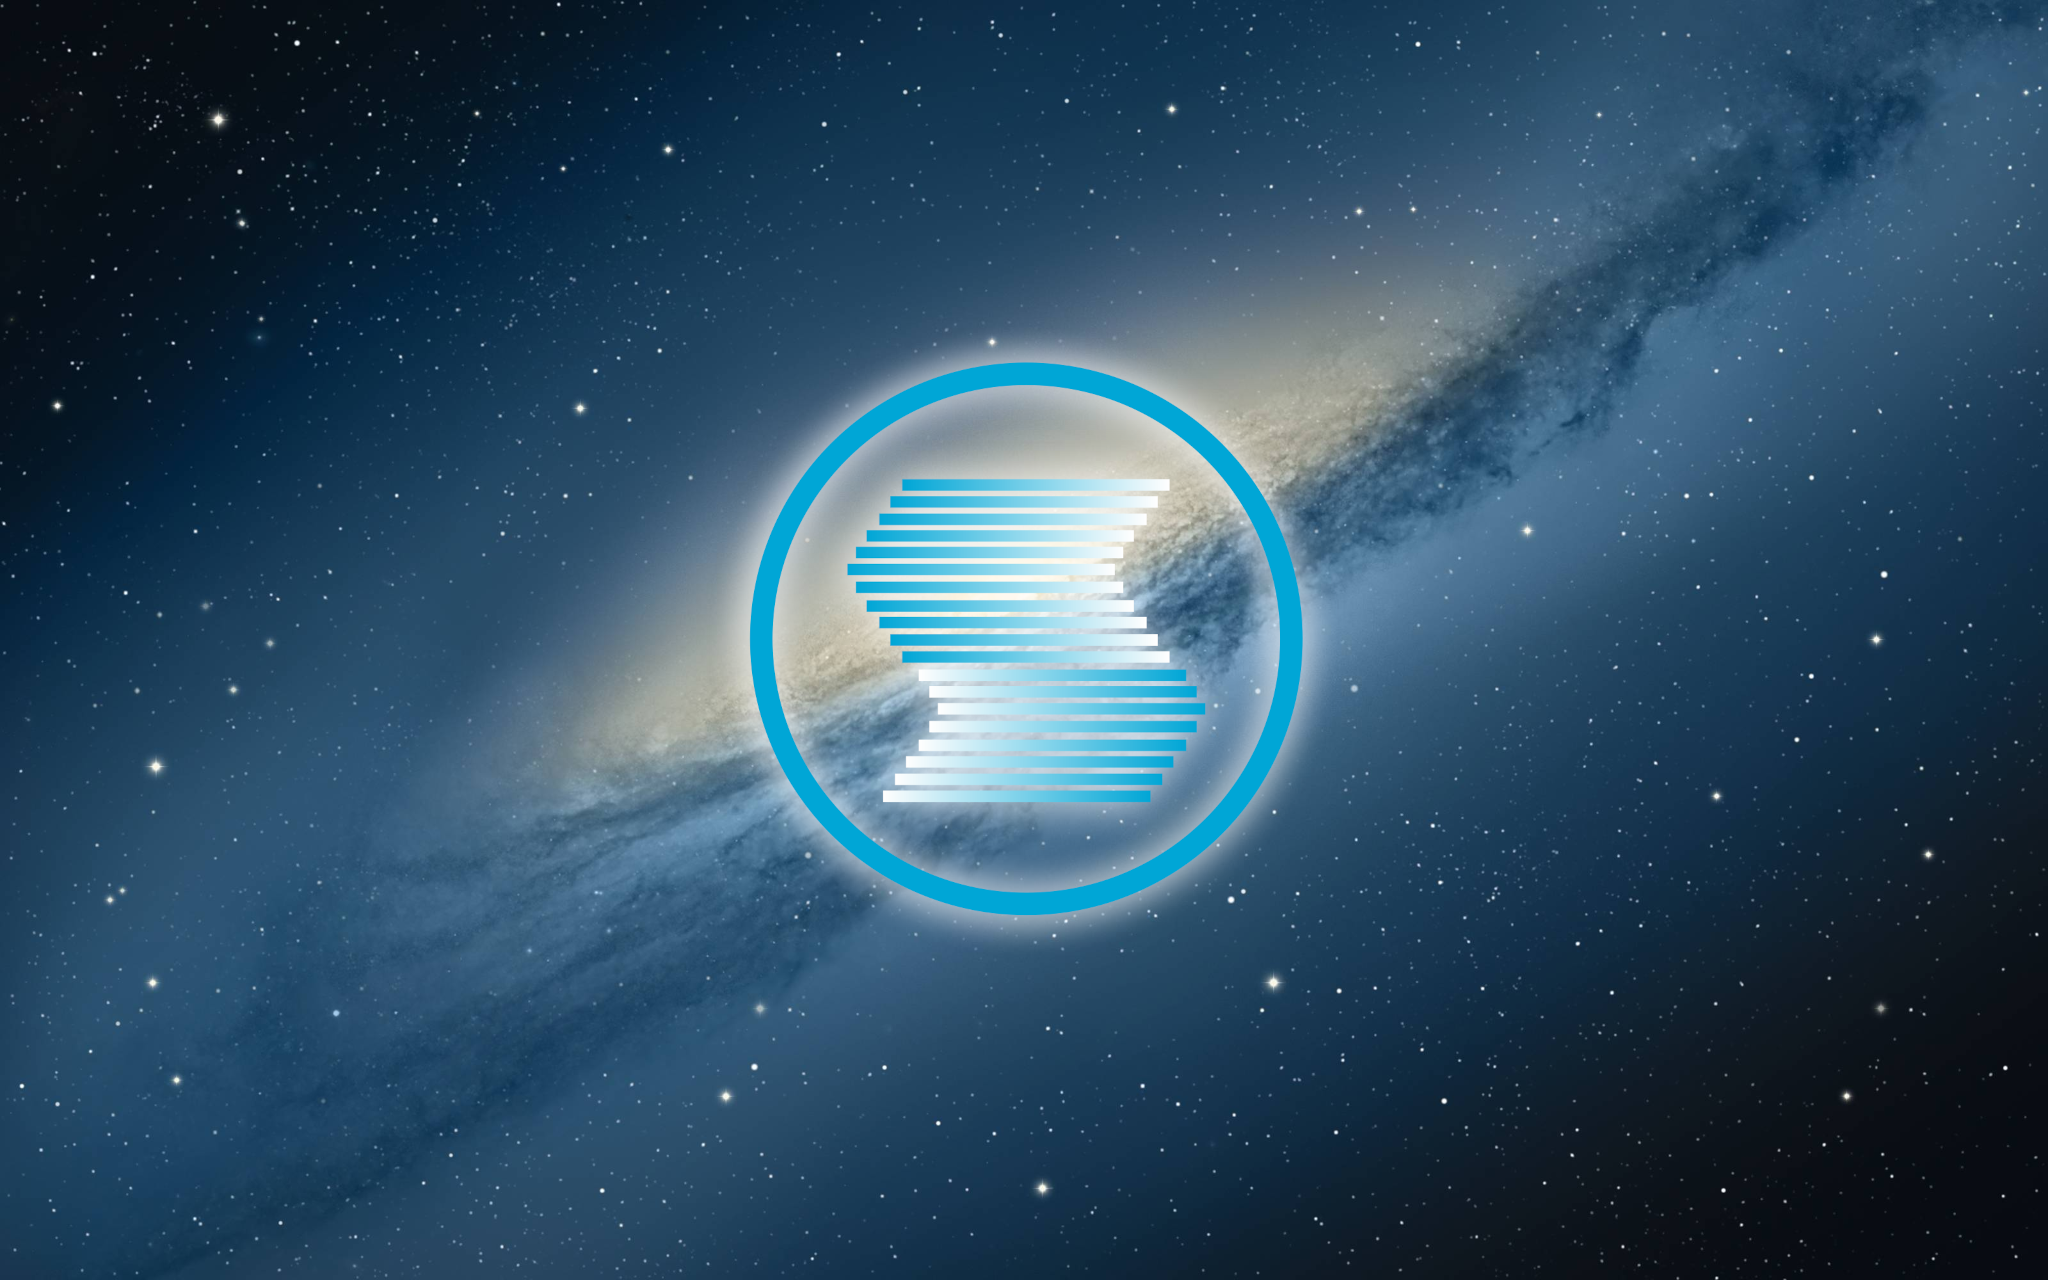
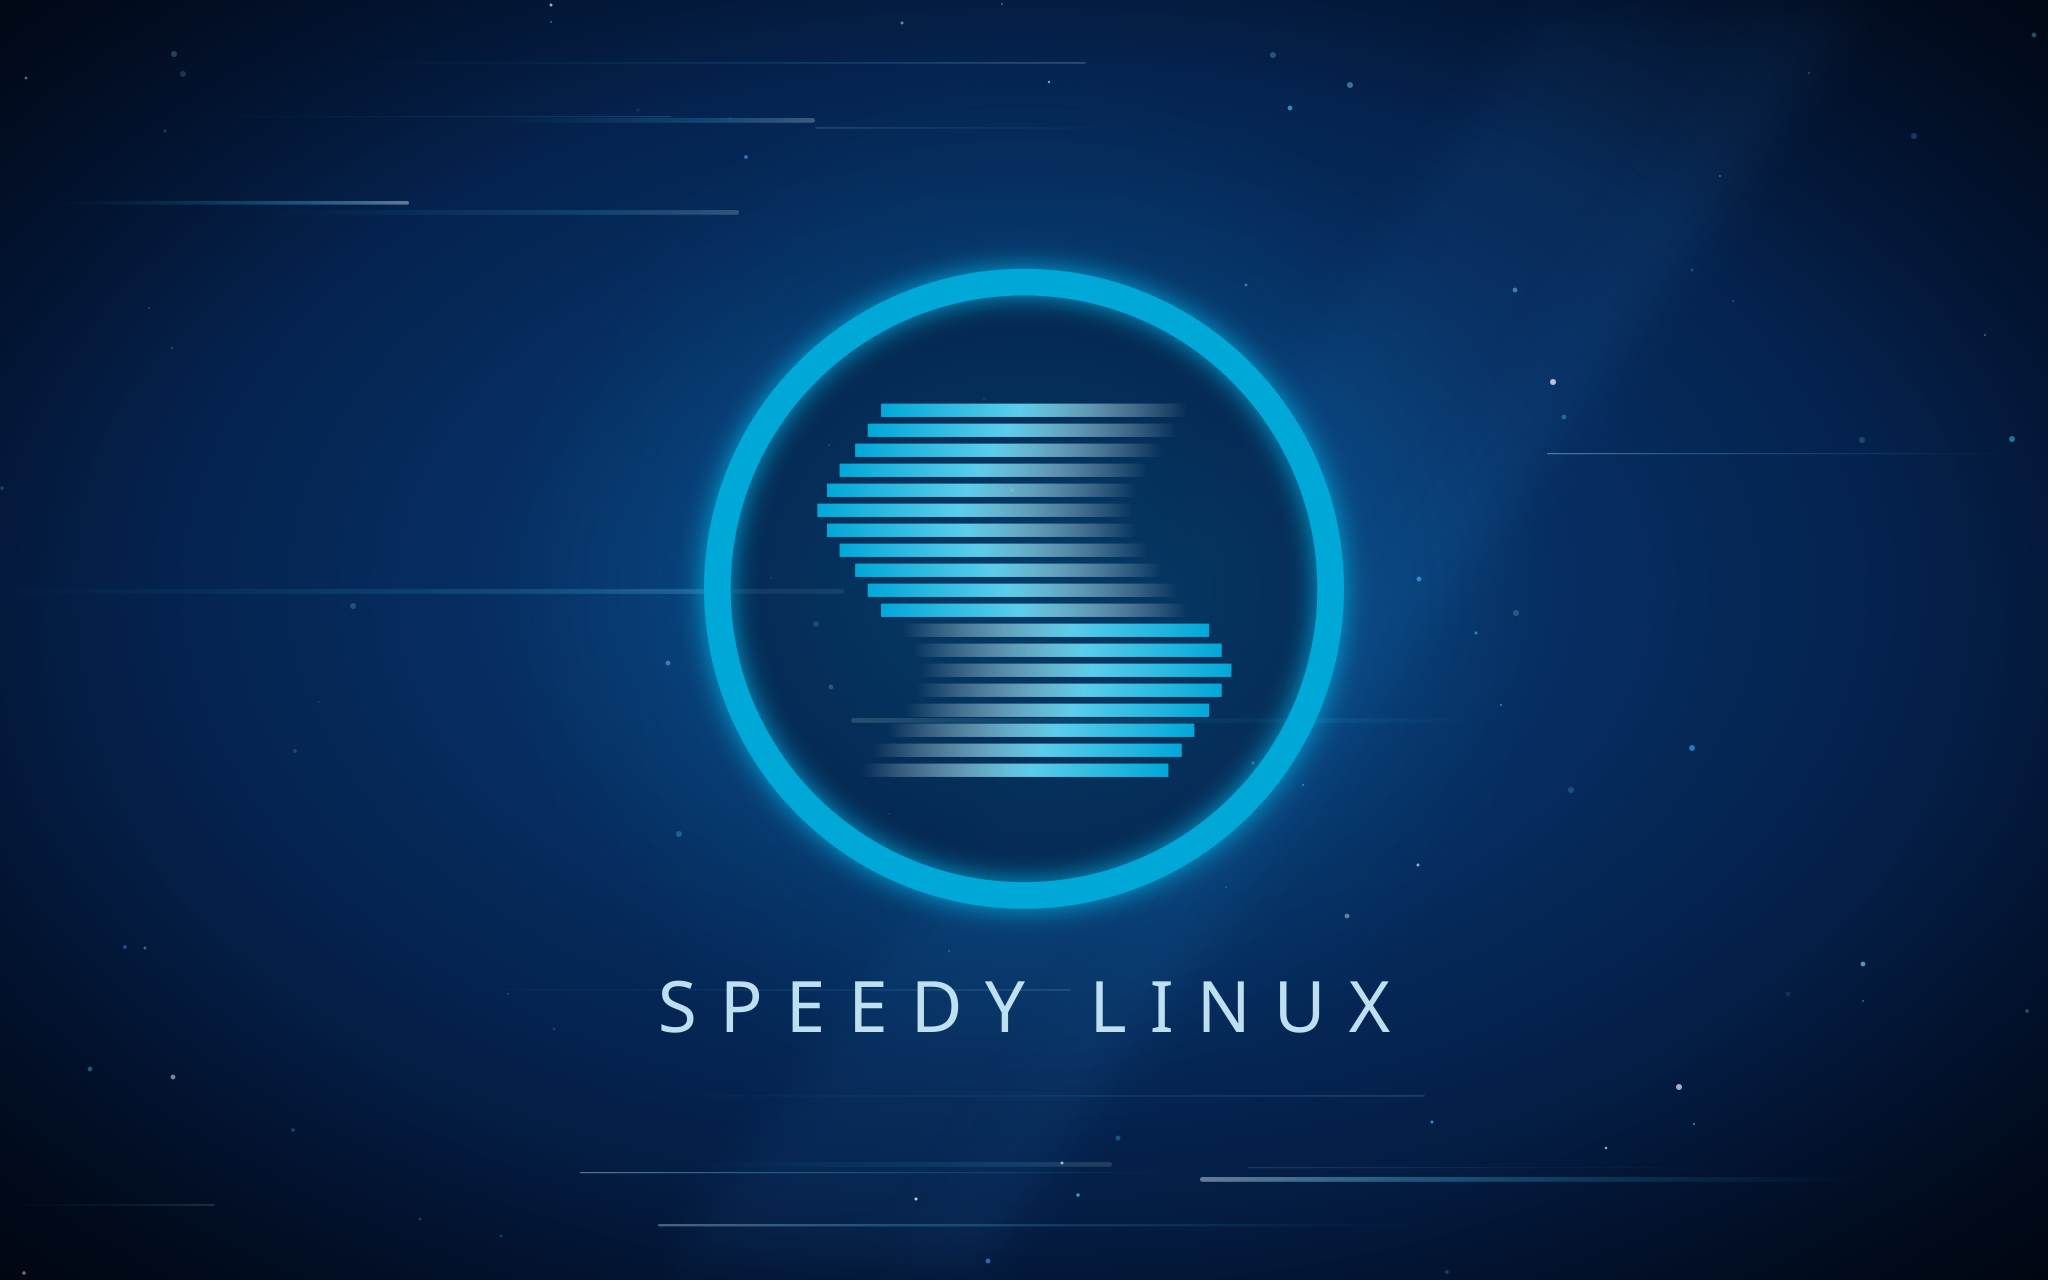
feat: Novo wallpaper e tela de boas-vindas do Calamares
- wallpaper 4K e welcome no estilo da distro, com o logo em vetor
- substitui o fundo de galáxia do welcome (imagem de terceiros)
- tools/gerar-imagens.{py,sh} para regerar as imagens via Docker

diff --git a/tools/gerar-imagens.py b/tools/gerar-imagens.py
@@ -1,0 +1,126 @@
+#!/usr/bin/env python3
+"""Gera em SVG o wallpaper e a tela de boas-vindas do Speedy Linux.
+
+Uso: gerar-imagens.py LARGURA ALTURA [--text] > saida.svg
+Normalmente chamado por tools/gerar-imagens.sh, que também converte para PNG.
+"""
+import random
+import sys
+
+W, H = int(sys.argv[1]), int(sys.argv[2])
+TEXT = "--text" in sys.argv
+
+K = H / 2160          # tudo foi desenhado para 2160px de altura
+CX, CY = W / 2, H * 0.46
+S = 1.25 * K          # escala do logo
+CYAN = "#00A8D8"
+random.seed(7)
+
+out = []
+a = out.append
+a(f'<svg xmlns="http://www.w3.org/2000/svg" width="{W}" height="{H}" viewBox="0 0 {W} {H}">')
+a('<defs>')
+a(f'''<radialGradient id="bg" cx="50%" cy="46%" r="75%">
+  <stop offset="0" stop-color="#0B4C8C"/>
+  <stop offset="0.35" stop-color="#062E62"/>
+  <stop offset="0.75" stop-color="#03173A"/>
+  <stop offset="1" stop-color="#010A1E"/>
+</radialGradient>
+<radialGradient id="halo" cx="50%" cy="50%" r="50%">
+  <stop offset="0" stop-color="{CYAN}" stop-opacity="0.35"/>
+  <stop offset="0.6" stop-color="{CYAN}" stop-opacity="0.08"/>
+  <stop offset="1" stop-color="{CYAN}" stop-opacity="0"/>
+</radialGradient>
+<linearGradient id="fadeR" x1="0" x2="1" y1="0" y2="0">
+  <stop offset="0" stop-color="{CYAN}"/>
+  <stop offset="0.45" stop-color="#5CCDEB"/>
+  <stop offset="1" stop-color="#FFFFFF" stop-opacity="0"/>
+</linearGradient>
+<linearGradient id="fadeL" x1="0" x2="1" y1="0" y2="0">
+  <stop offset="0" stop-color="#FFFFFF" stop-opacity="0"/>
+  <stop offset="0.55" stop-color="#5CCDEB"/>
+  <stop offset="1" stop-color="{CYAN}"/>
+</linearGradient>
+<linearGradient id="streak" x1="0" x2="1" y1="0" y2="0">
+  <stop offset="0" stop-color="{CYAN}" stop-opacity="0"/>
+  <stop offset="0.7" stop-color="#3FC3EC" stop-opacity="0.9"/>
+  <stop offset="1" stop-color="#E6F8FF" stop-opacity="1"/>
+</linearGradient>
+<linearGradient id="streakL" x1="0" x2="1" y1="0" y2="0">
+  <stop offset="0" stop-color="#E6F8FF" stop-opacity="1"/>
+  <stop offset="0.3" stop-color="#3FC3EC" stop-opacity="0.9"/>
+  <stop offset="1" stop-color="{CYAN}" stop-opacity="0"/>
+</linearGradient>
+<filter id="glow" x="-50%" y="-50%" width="200%" height="200%">
+  <feGaussianBlur stdDeviation="18" result="b"/>
+  <feMerge><feMergeNode in="b"/><feMergeNode in="SourceGraphic"/></feMerge>
+</filter>
+<filter id="blur40"><feGaussianBlur stdDeviation="{40*K:.1f}"/></filter>
+<radialGradient id="vignette" cx="50%" cy="50%" r="75%">
+  <stop offset="0.6" stop-color="#000" stop-opacity="0"/>
+  <stop offset="1" stop-color="#000" stop-opacity="0.55"/>
+</radialGradient>
+''')
+a('</defs>')
+
+# fundo
+a(f'<rect width="{W}" height="{H}" fill="url(#bg)"/>')
+
+# faixas diagonais suaves (luz)
+for x0, w, op in [(-0.10, 260, 0.10), (-0.03, 90, 0.08), (0.76, 320, 0.07), (0.87, 120, 0.09)]:
+    x = x0 * W
+    a(f'<rect x="{x:.0f}" y="{-600*K:.0f}" width="{w*K:.0f}" height="{H+1200*K:.0f}" '
+      f'fill="#2A8FE0" opacity="{op}" transform="rotate(35 {x:.0f} 0)" filter="url(#blur40)"/>')
+
+# linhas de velocidade horizontais (motivo do logo)
+for _ in range(int(70 * W / 3840)):
+    y = random.uniform(80 * K, H - 80 * K)
+    if abs(y - CY) < 470 * S and random.random() < 0.85:  # evita o miolo do logo
+        continue
+    length = random.uniform(300, 1500) * K
+    h = random.choice([2, 3, 4, 6, 8]) * max(K, 0.6)
+    op = random.uniform(0.10, 0.45)
+    if random.random() < 0.5:
+        x, grad = random.uniform(-200 * K, W * 0.45), "streak"
+    else:
+        x, grad = random.uniform(W * 0.5, W + 200 * K) - length, "streakL"
+    a(f'<rect x="{x:.0f}" y="{y:.0f}" width="{length:.0f}" height="{h:.1f}" rx="{h/2:.1f}" '
+      f'fill="url(#{grad})" opacity="{op:.2f}"/>')
+
+# partículas
+for _ in range(int(260 * W * H / (3840 * 2160))):
+    x, y = random.uniform(0, W), random.uniform(0, H)
+    r = random.choice([1.5, 2, 2.5, 3, 4, 5]) * max(K, 0.6)
+    op = random.uniform(0.15, 0.8)
+    col = random.choice(["#7FD8F5", "#3FB6F0", "#FFFFFF", "#4A90E2"])
+    a(f'<circle cx="{x:.0f}" cy="{y:.0f}" r="{r:.1f}" fill="{col}" opacity="{op:.2f}"/>')
+
+# halo atrás do logo
+a(f'<circle cx="{CX}" cy="{CY}" r="{700*S:.0f}" fill="url(#halo)"/>')
+a(f'<circle cx="{CX}" cy="{CY}" r="{414*S:.0f}" fill="#021433" opacity="0.55"/>')
+
+# ---- logo (recriado em vetor a partir de images/logo.png) ----
+a(f'<g transform="translate({CX} {CY}) scale({S:.4f})">')
+a(f'<circle r="414" fill="none" stroke="{CYAN}" stroke-width="36" filter="url(#glow)"/>')
+pitch, bh, y0 = 27, 18, -250
+top_left = [-193, -211, -228, -249, -266, -279, -266, -249, -228, -211, -193]
+top_right = [221, 206, 186, 166, 151, 146, 151, 166, 186, 206, 221]
+bot_right = [250, 267, 280, 267, 250, 230, 213, 195]
+bot_left = [-164, -149, -139, -144, -159, -184, -204, -219]
+for i, (l, r) in enumerate(zip(top_left, top_right)):
+    a(f'<rect x="{l}" y="{y0 + i*pitch}" width="{r-l}" height="{bh}" fill="url(#fadeR)"/>')
+for j, (l, r) in enumerate(zip(bot_left, bot_right)):
+    a(f'<rect x="{l}" y="{y0 + (len(top_left)+j)*pitch}" width="{r-l}" height="{bh}" fill="url(#fadeL)"/>')
+a('</g>')
+
+# texto
+if TEXT:
+    ty = CY + 414 * S + 230 * K
+    a(f'<text x="{CX}" y="{ty:.0f}" text-anchor="middle" font-family="Noto Sans" '
+      f'font-weight="300" font-size="{120*K:.0f}" letter-spacing="{38*K:.0f}" '
+      f'fill="#CDEFFC" opacity="0.92">SPEEDY LINUX</text>')
+
+# vinheta
+a(f'<rect width="{W}" height="{H}" fill="url(#vignette)"/>')
+a('</svg>')
+print("\n".join(out))

diff --git a/README.md b/README.md
@@ -50,6 +50,14 @@ As imagens ficam **só** na pasta [`images/`](images). A build copia cada uma pa
 
 Para trocar uma imagem, substitua o arquivo **mantendo o nome**. Não precisa mexer em `config/`.
 
+O `wallpaper.png` (3840x2160) e o `welcome.png` (2048x1280) são gerados por
+[`tools/gerar-imagens.py`](tools/gerar-imagens.py), que desenha o logo em vetor no estilo da distro.
+Para ajustar (cores, tamanho do logo, texto), edite o script e rode:
+
+```sh
+./tools/gerar-imagens.sh   # usa Docker; grava em images/
+```
+
 ## 3. Gerar a ISO
 
 As arquiteturas suportadas são `amd64` e `arm64`.
@@ -106,6 +114,7 @@ Alterar a versão ou as imagens **não** apaga o cache. Ele só é descartado co
 
 - `os-release` – versão e base Debian
 - `images/` – imagens da distro
+- `tools/gerar-imagens.sh` + `.py` – geram o wallpaper e a tela de boas-vindas
 - `build.sh` – gera a ISO (Linux)
 - `docker-build.sh` + `Dockerfile` – rodam o `build.sh` num container Debian
 - `install-dependencias.sh` – ferramentas de build (host Debian e container)
